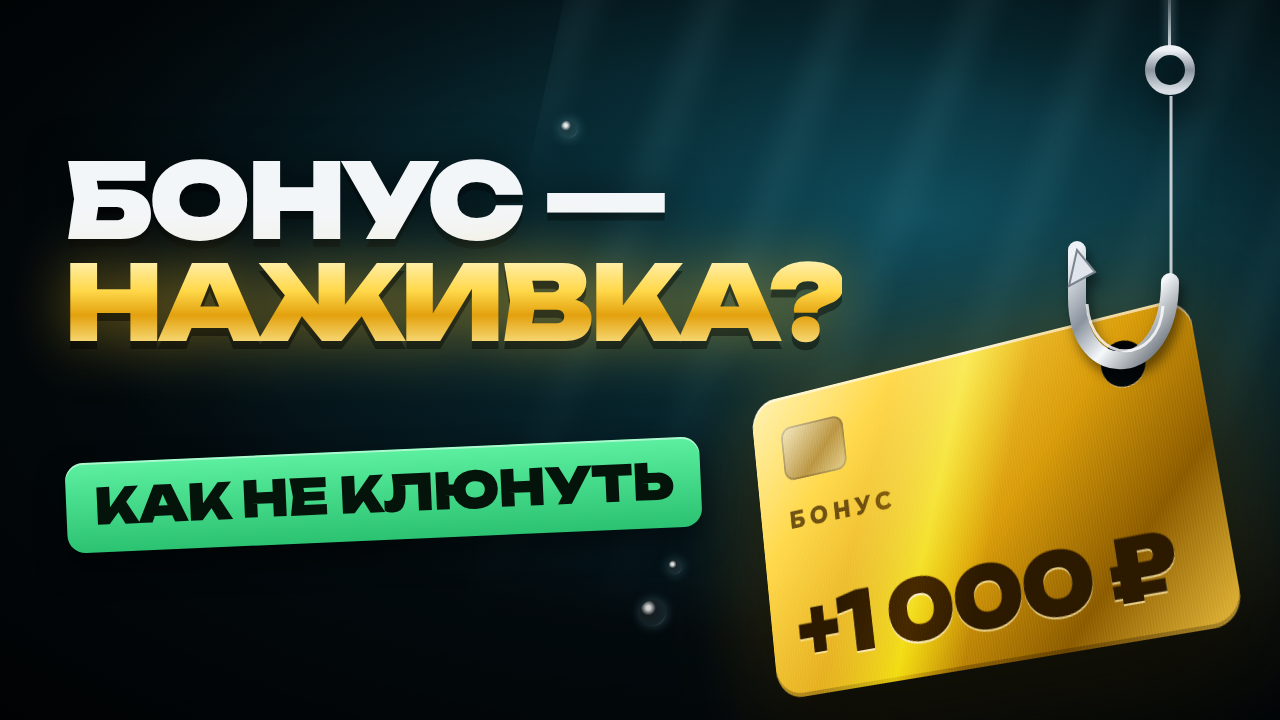
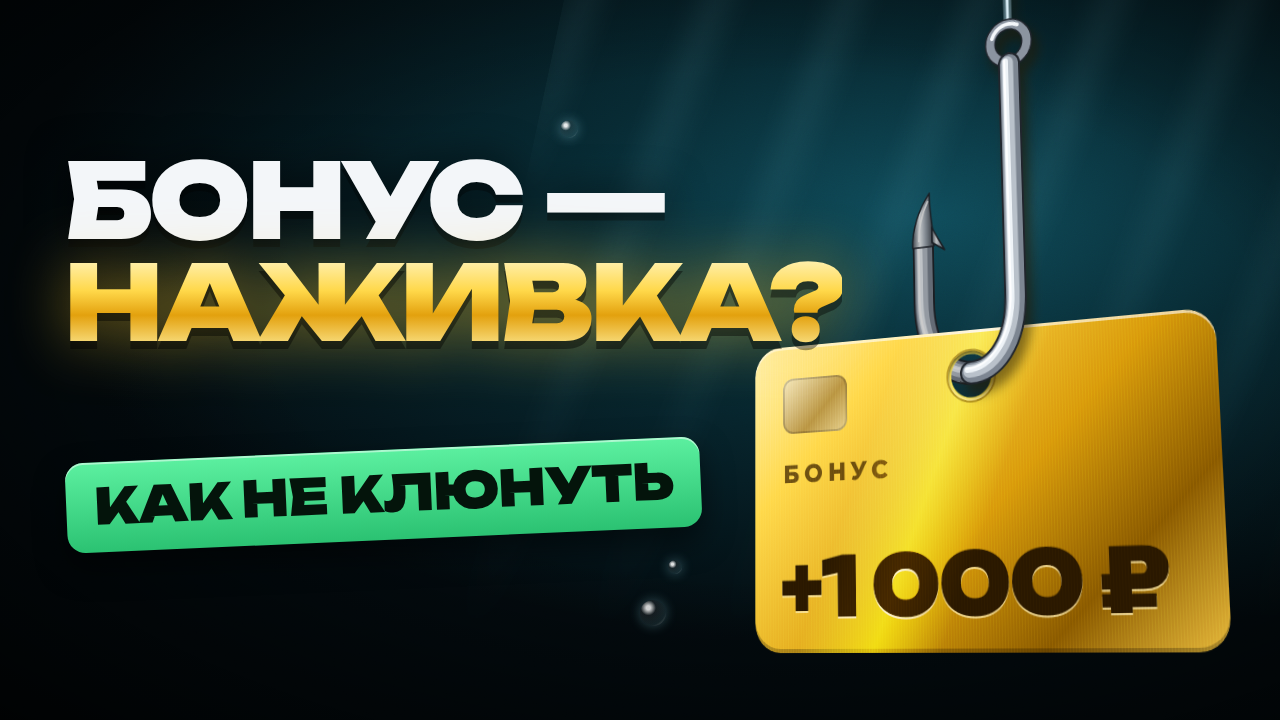
Превью №2: объёмный стальной крючок продет в сквозное отверстие карты, острое жало с бородкой; эталон превью в навыке
Claude-Session: https://claude.ai/code/session_01RfCfKDkbyGyDNmw4SWPkFj

Changed region(s): [[0.5625, 0.0, 0.9688, 0.9778], [0.875, 0.0, 0.9375, 0.1528]]

diff --git a/youtube/02-bank-earns/thumb/thumb11.html b/youtube/02-bank-earns/thumb/thumb11.html
@@ -30,10 +30,7 @@
     background: linear-gradient(180deg, #5cf0a0, #2bc272); color: #04140b; font: 900 50px "Unb"; text-transform: uppercase; letter-spacing: -.02em;
     box-shadow: 0 14px 30px rgba(0,0,0,.5), inset 0 2px 0 rgba(255,255,255,.5); }
 
-  /* леска, крючок, карта */
-  .line { position: absolute; left: 1168px; top: -10px; width: 3px; height: 62px; background: linear-gradient(180deg, rgba(220,240,250,.2), rgba(235,245,250,.95)); box-shadow: 0 0 10px rgba(200,240,255,.6); z-index: 3; }
-  svg.hook { position: absolute; left: 1025px; top: 36px; z-index: 4; filter: drop-shadow(10px 18px 14px rgba(0,0,0,.55)); }
-  .cw { position: absolute; left: 700px; top: 330px; z-index: 2; transform: perspective(1400px) rotateY(-22deg) rotateX(10deg) rotateZ(-13deg); transform-origin: 70% 10%; }
+  /* карта */
   .card { position: relative; width: 500px; height: 316px; border-radius: 30px; overflow: hidden; padding: 34px;
     background: linear-gradient(135deg, #fff2b0 0%, #ffd84a 22%, #d99a0b 55%, #8a5a00 78%, #e6b73a 100%);
     box-shadow: 0 50px 90px rgba(0,0,0,.65), 0 0 120px rgba(255,200,40,.28), inset 0 3px 0 rgba(255,255,255,.6), inset 0 -4px 0 rgba(0,0,0,.25); }
@@ -41,13 +38,19 @@
   .card .lb { position: absolute; left: 34px; top: 118px; font: 800 26px "Mont"; letter-spacing: 6px; color: rgba(60,35,0,.75); text-transform: uppercase; }
   .card .sum { position: absolute; left: 30px; bottom: 26px; font: 900 82px/1 "Unb"; letter-spacing: -.04em; color: #2a1800;
     text-shadow: 0 2px 0 rgba(255,240,180,.7), 0 -1px 0 rgba(0,0,0,.25); }
-  .card .hole { position: absolute; right: 52px; top: 28px; width: 46px; height: 46px; border-radius: 50%; background: #03080b; box-shadow: inset 0 4px 8px rgba(0,0,0,.8), 0 1px 0 rgba(255,255,255,.5); }
   .card .sheen { position: absolute; inset: 0; background: linear-gradient(112deg, transparent 28%, rgba(255,255,255,.65) 42%, transparent 54%); mix-blend-mode: overlay; }
   .card .brush { position: absolute; inset: 0; opacity: .18; background: repeating-linear-gradient(90deg, rgba(255,255,255,.5) 0 1px, transparent 1px 3px); mix-blend-mode: overlay; }
-  .front { position: absolute; z-index: 6; left: 1025px; top: 36px; filter: drop-shadow(4px 8px 6px rgba(0,0,0,.5)); }
   .v { display: none; } .v.on { display: block; }
   .studio-only, .water-only { display: none; }
   body.studio .studio-only, body.water .water-only { display: block; }
+
+  .cw { position: absolute; left: 720px; top: 330px; z-index: 2; transform: perspective(1500px) rotateY(-24deg) rotateX(8deg) rotateZ(-5deg); transform-origin: 50% 0; }
+  .card { -webkit-mask: radial-gradient(circle at 250px 46px, transparent 21px, #000 22.5px); mask: radial-gradient(circle at 250px 46px, transparent 21px, #000 22.5px); }
+  .card .rim { position: absolute; left: 225px; top: 21px; width: 50px; height: 50px; border-radius: 50%; box-shadow: inset 0 3px 3px rgba(0,0,0,.55), inset 0 -2px 2px rgba(255,240,170,.8), 0 0 0 2px rgba(120,80,0,.5); }
+  svg.hk { position: absolute; left: 150px; top: -332px; overflow: visible; }
+  svg.hk.front { z-index: 3; filter: drop-shadow(6px 10px 6px rgba(40,25,0,.55)); }
+  svg.hk.back { z-index: 0; filter: brightness(.8); }
+  .card { z-index: 1; }
 </style>
 </head>
 <body>
@@ -63,26 +66,11 @@
 <div class="t"><div class="w">Бонус —</div><div class="gold">наживка?</div></div>
 <div class="plate" id="plate">как не клюнуть</div>
 
-<div class="line"></div>
-<!-- крючок: металл (градиент поперёк), блик, жало с бородкой; нижний изгиб проходит через отверстие карты -->
-<svg class="hook" width="300" height="430" viewBox="0 0 300 430">
-  <defs>
-    <linearGradient id="met" x1="0" y1="0" x2="1" y2="0"><stop offset="0" stop-color="#59616c"/><stop offset=".3" stop-color="#f4f7fa"/><stop offset=".5" stop-color="#9aa3ae"/><stop offset=".72" stop-color="#e6ebf0"/><stop offset="1" stop-color="#3f4650"/></linearGradient>
-    <linearGradient id="met2" x1="0" y1="0" x2="0" y2="1"><stop offset="0" stop-color="#eef2f6"/><stop offset=".5" stop-color="#8a939e"/><stop offset="1" stop-color="#d7dde3"/></linearGradient>
-  </defs>
-  <circle cx="145" cy="34" r="20" fill="none" stroke="url(#met2)" stroke-width="10"/>
-  <path d="M145 54 V250" stroke="url(#met)" stroke-width="18" stroke-linecap="round" fill="none"/>
-  <path d="M146 60 V246" stroke="rgba(255,255,255,.75)" stroke-width="3" fill="none"/>
-</svg>
-<svg class="front" width="300" height="430" viewBox="0 0 300 430">
-  <defs>
-    <linearGradient id="metB" x1="0" y1="0" x2="1" y2="1"><stop offset="0" stop-color="#eef2f6"/><stop offset=".35" stop-color="#8a939e"/><stop offset=".6" stop-color="#f6f9fb"/><stop offset="1" stop-color="#4a525c"/></linearGradient>
-  </defs>
-  <path d="M145 246 C145 345 52 350 52 262 L52 214" stroke="url(#metB)" stroke-width="18" stroke-linecap="round" fill="none"/>
-  <path d="M52 214 L44 250 L70 236 Z" fill="#dfe5eb" stroke="#7b848f" stroke-width="2"/>
-  <path d="M138 270 C134 330 66 330 62 268" stroke="rgba(255,255,255,.8)" stroke-width="3" fill="none"/>
-</svg>
-<div class="cw"><div class="card"><div class="chip"></div><div class="lb">бонус</div><div class="sum">+1 000 ₽</div><div class="hole"></div><div class="brush"></div><div class="sheen"></div></div></div>
+<div class="cw">
+  <svg class="hk back" width="300" height="460" viewBox="0 0 300 460"><path d="M100 375 C75 375 50 350 50 300 L50 241" stroke="#20252c" stroke-width="24" fill="none" stroke-linecap="butt" stroke-linejoin="round"/><path d="M100 375 C75 375 50 350 50 300 L50 241" stroke="#7d8692" stroke-width="20" fill="none" stroke-linecap="butt" stroke-linejoin="round"/><path d="M100 375 C75 375 50 350 50 300 L50 241" stroke="#b9c1ca" stroke-width="13" transform="translate(-2,-1.5)" fill="none" stroke-linecap="butt" stroke-linejoin="round"/><path d="M100 375 C75 375 50 350 50 300 L50 241" stroke="#eef3f7" stroke-width="6" transform="translate(-4,-3)" fill="none" stroke-linecap="butt" stroke-linejoin="round"/><path d="M100 375 C75 375 50 350 50 300 L50 241" stroke="#ffffff" stroke-width="2" transform="translate(-5,-4)" opacity=".9" fill="none" stroke-linecap="butt" stroke-linejoin="round"/><defs><linearGradient id="tipg" x1="0" y1="0" x2="1" y2="0"><stop offset="0" stop-color="#4d555f"/><stop offset=".35" stop-color="#f2f6f9"/><stop offset=".6" stop-color="#a7b0ba"/><stop offset="1" stop-color="#3c434c"/></linearGradient></defs><path d="M38 242 C38 222 44 204 58 186 C57 206 62 224 62 242 Z" fill="url(#tipg)" stroke="#20252c" stroke-width="1.6" stroke-linejoin="round"/><path d="M60 222 C64 230 69 238 74 247 C68 243 63 240 60 238 Z" fill="url(#tipg)" stroke="#20252c" stroke-width="1.6" stroke-linejoin="round"/><path d="M45 236 C45 222 49 207 56 194" stroke="#ffffff" stroke-width="2" fill="none" opacity=".85"/></svg>
+  <div class="card"><div class="chip"></div><div class="lb">бонус</div><div class="sum">+1 000 ₽</div><div class="brush"></div><div class="sheen"></div><div class="rim"></div></div>
+  <svg class="hk front" width="300" height="460" viewBox="0 0 300 460"><path d="M150 20 V-700" stroke="rgba(235,245,250,.95)" stroke-width="3"/><path d="M150 20 V-700" stroke="rgba(200,240,255,.35)" stroke-width="9"/><circle cx="150" cy="40" r="20" fill="none" stroke="#20252c" stroke-width="12"/><circle cx="150" cy="40" r="20" fill="none" stroke="#8b94a0" stroke-width="9"/><path d="M132 33 A20 20 0 0 1 160 22" fill="none" stroke="#f4f7fa" stroke-width="4" stroke-linecap="round"/><path d="M150 62 V300 C150 350 125 375 100 375" stroke="#20252c" stroke-width="24" fill="none" stroke-linecap="round" stroke-linejoin="round"/><path d="M150 62 V300 C150 350 125 375 100 375" stroke="#7d8692" stroke-width="20" fill="none" stroke-linecap="round" stroke-linejoin="round"/><path d="M150 62 V300 C150 350 125 375 100 375" stroke="#b9c1ca" stroke-width="13" transform="translate(-2,-1.5)" fill="none" stroke-linecap="round" stroke-linejoin="round"/><path d="M150 62 V300 C150 350 125 375 100 375" stroke="#eef3f7" stroke-width="6" transform="translate(-4,-3)" fill="none" stroke-linecap="round" stroke-linejoin="round"/><path d="M150 62 V300 C150 350 125 375 100 375" stroke="#ffffff" stroke-width="2" transform="translate(-5,-4)" opacity=".9" fill="none" stroke-linecap="round" stroke-linejoin="round"/></svg>
+</div>
 
 <div class="grain"></div><div class="vig"></div>
 <script>

diff --git a/.claude/skills/youtube-longform/SKILL.md b/.claude/skills/youtube-longform/SKILL.md
@@ -65,7 +65,7 @@ Never spend hours of render before gates 3–4.
    **Thumbnail rules from the owner (08.10):** it must hook — a metaphor or curiosity gap (mousetrap, bait on a hook,
    «48 % → 0 %»), not a plain statement of fact; give 6+ variants. **No system emoji** («дешёвые смайлики» look cheap and
    spoil the thumbnail). Any icon or object must be premium 3D: lit, with metal or glass materials, highlights and a real
-   shadow. Video #2: the owner liked v11 «Бонус — наживка?» (a card on a fishing hook).
+   shadow. **Reference the owner approved («это то, что я искал, такие превью мне нравятся»):** `youtube/02-bank-earns/thumb/thumb11.html` (v=a) — a metaphor object (a gold bank card hanging on a 3D steel fishing hook threaded through a real hole), 2-line question headline «БОНУС — / НАЖИВКА?» (white plus gold gradient), one green benefit plate («как не клюнуть»), a deep underwater background with light rays, bubbles and grain. New thumbnails: this level of finish — a metaphor, a 3D object with materials, ≤ 6 words.
 3. Voice: he records the script in one file (retakes are fine — they are cut automatically) and sends it.
    **Claude starts the build immediately** — don't wait for the night routine.
 
